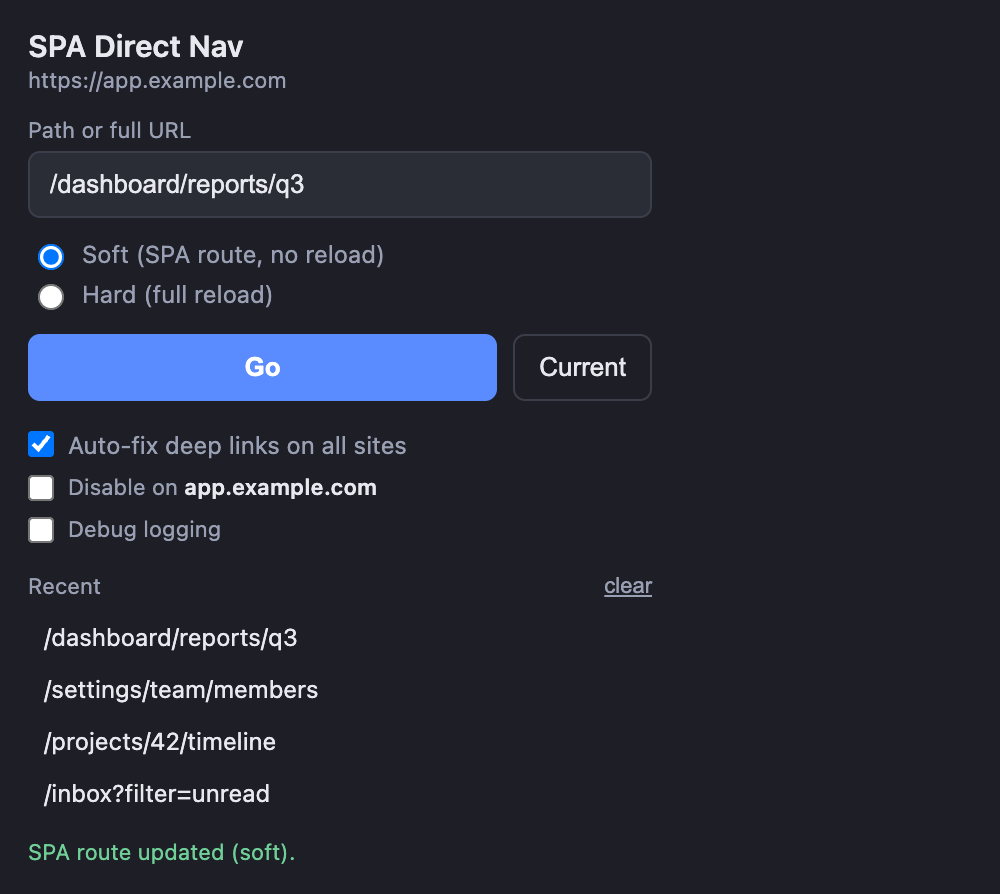
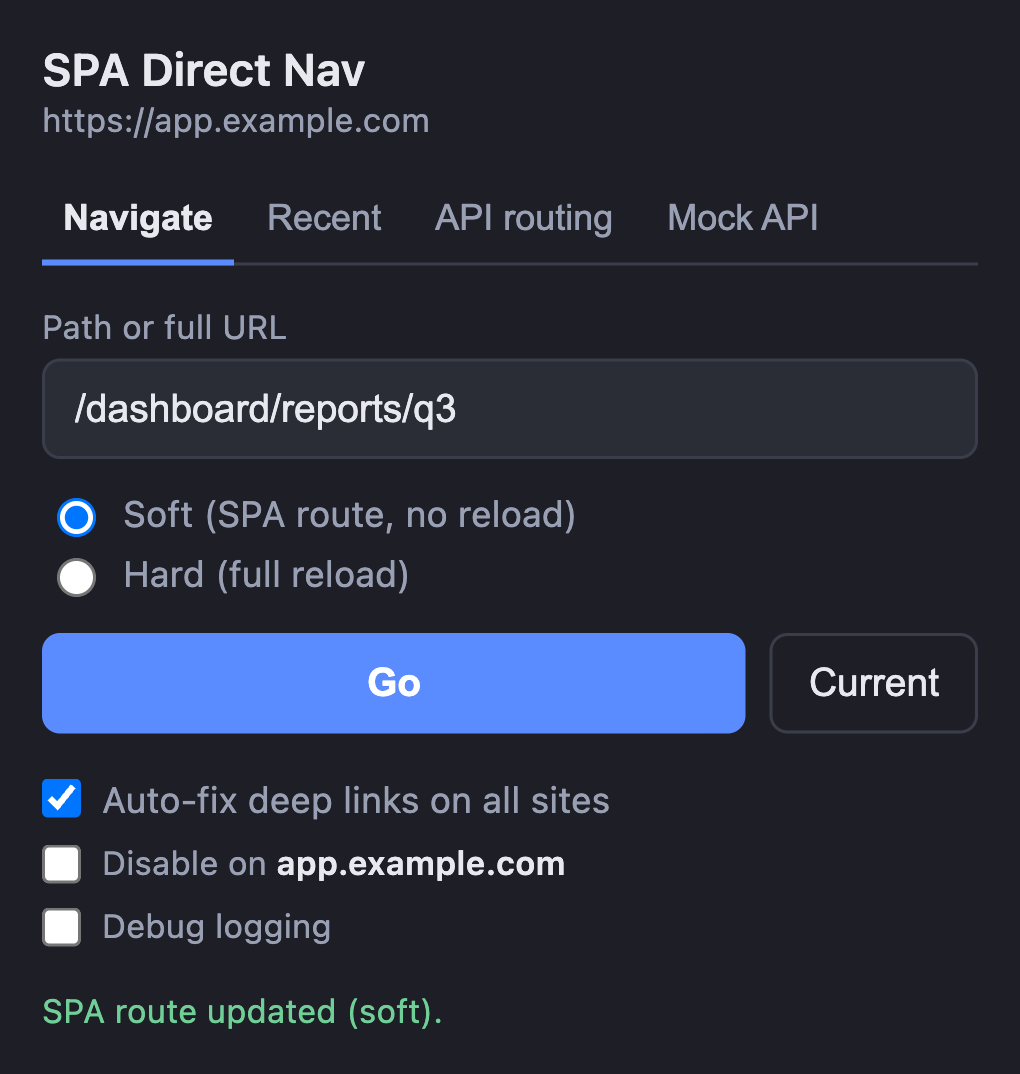
Refresh README screenshots for the tabbed popup
Regenerate docs/popup.png to show the new tabbed Navigate view, and add
docs/api-routing.png and docs/mock.png for the API routing and Mock API
tabs. Embed the two new shots under their sections and update the popup
alt text.

diff --git a/README.md b/README.md
@@ -36,7 +36,7 @@ setup.
 ### A. Jump to a route from the popup
 
 <p align="center">
-  <img src="docs/popup.png" alt="SPA Direct Nav popup: path input, Soft/Hard mode, Go and Current buttons, settings checkboxes, and a recent destinations list" width="360" />
+  <img src="docs/popup.png" alt="SPA Direct Nav popup, Navigate tab: tab bar (Navigate, Recent, API routing, Mock API), a path input, Soft/Hard mode, Go and Current buttons, and the auto-fix settings" width="360" />
 </p>
 
 1. Open the app you're working in (any SPA).
@@ -75,6 +75,10 @@ to /dashboard/reports/q3”*), so you always know it acted.
 
 ### C. Route an API path to another server
 
+<p align="center">
+  <img src="docs/api-routing.png" alt="The API routing tab: a prefix → target form and a per-site list of routes" width="360" />
+</p>
+
 Open the popup, switch to the **API routing** tab, and add a rule for the site you're on:
 
 ```
@@ -97,6 +101,10 @@ staging backend without touching its code or running a dev proxy.
   calls work with no server changes.
 
 ### D. Mock an API response
+
+<p align="center">
+  <img src="docs/mock.png" alt="The Mock API tab: method, path, status, and a JSON response-body editor, with a list of saved mocks" width="360" />
+</p>
 
 Open the popup, switch to the **Mock API** tab, and add a mock for the site you're on:
 choose a method (or **ANY**), a path, a status code, and a response body.
